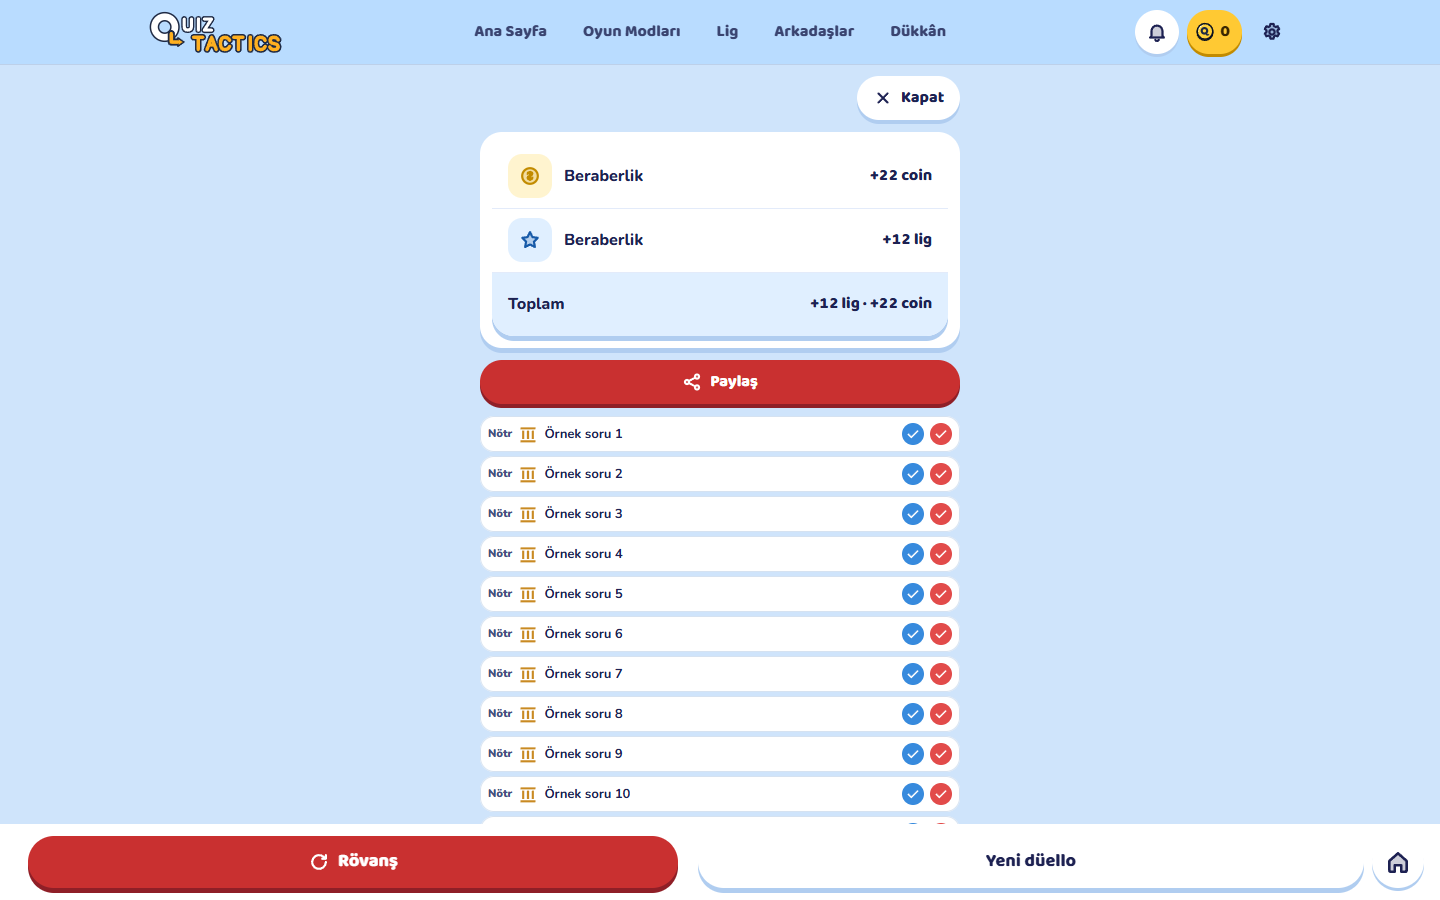
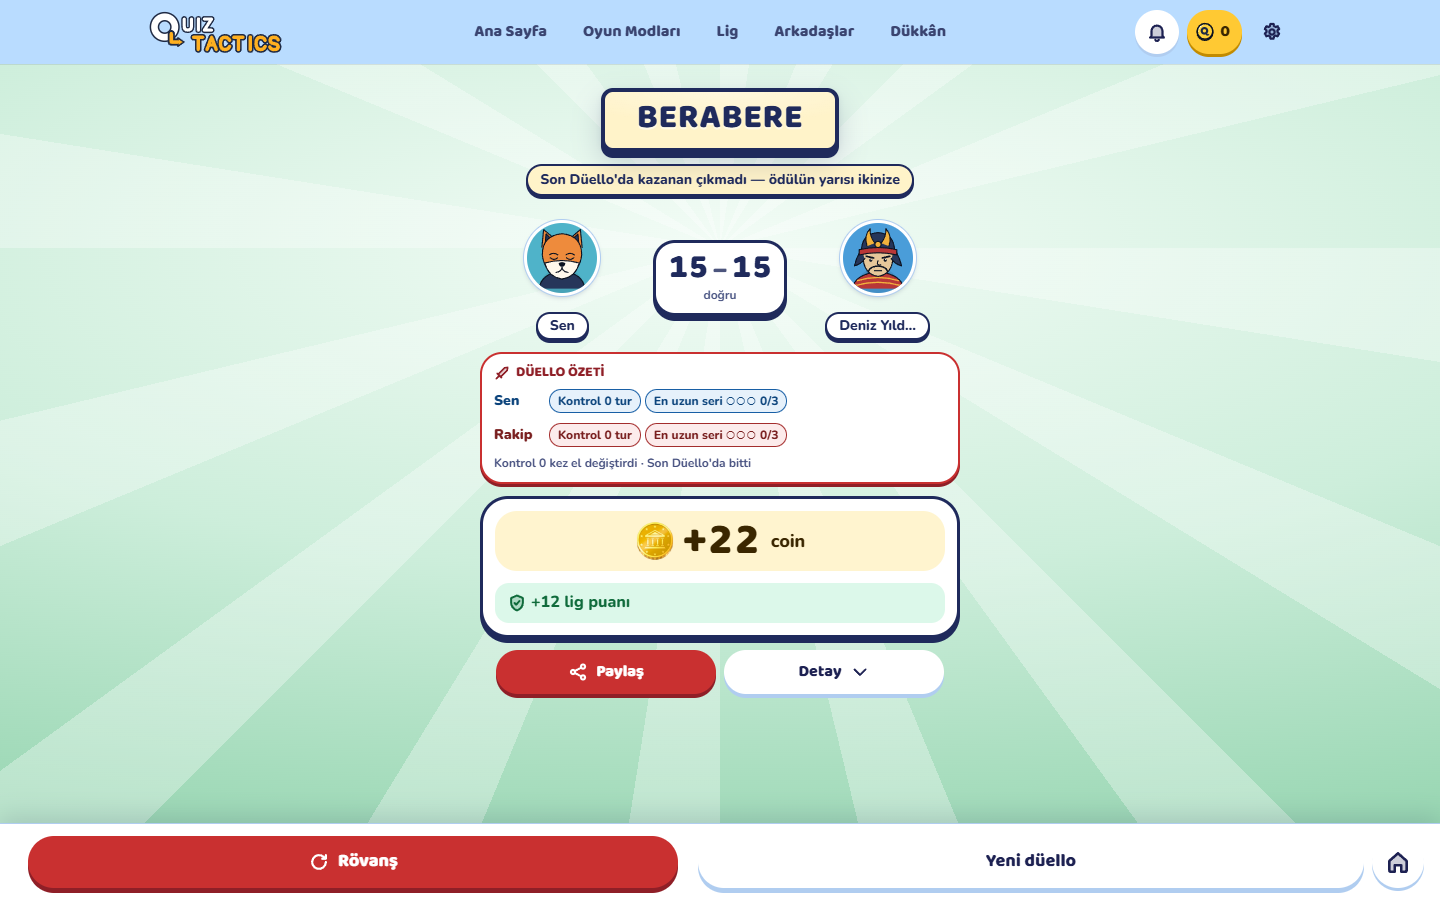
Paylaş maç sonu sahnesinde görünür: Detay'ın yanında (Klasik/Düello/Ortak Hazine), ölçekli sahnede de ≥ 44 px; paylas-ekran testi üç moda genişletildi [progress-yok]
Claude-Session: https://claude.ai/code/session_0121BevVf1dLX7H9cnDz7yFr

diff --git a/oyun/pages/DuelloPage.jsx b/oyun/pages/DuelloPage.jsx
@@ -1439,23 +1439,21 @@ function DuelloMac({ id }) {
           detay={d.durum === "bitti" || ezeliMetin || d.gecmis?.length ? (
             <>
               {d.durum === "bitti" && <OdulDokumu kaynak={`duello:${d.id}`} veri={macSonuOzet?.dokum} gorevleriGoster={false} />}
-              {/* Sistem paylaşımı + 1080×1920 maç sonucu kartı (Klasik maç sonuyla aynı) */}
-              {d.durum === "bitti" && !sahne.terk && (
-                <div className="m1-ss-satir m1-paylas" role="group" aria-label={ceviri("Paylaş")}>
-                  <PaylasDugmesi tur="sonuc" tur2="birincil" tamGenislik className="m1-paylas-kart" sonuc={{
-                    ad: ben.gorunen_ad, avatar: ben.gorunen_avatar ?? null,
-                    benSkor: v4Mac ? Number(ben.dogru ?? 0) : hkS.acik && !hkS.puan ? hkS.benY : Number(ben.puan ?? 0),
-                    rakipSkor: v4Mac ? Number(rakip.dogru ?? 0) : hkS.acik && !hkS.puan ? hkS.rakipY : Number(rakip.puan ?? 0),
-                    durum, rakipAd: rakip.gorunen_ad,
-                  }} />
-                </div>
-              )}
               {/* Son tahta: iki tarafın yuvaları (ikonlarla) */}
               {d.durum === "bitti" && !v4Mac && <HkSonTahta d={d} ben={ben} rakip={rakip} c={c2} />}
               {/* Her soru: hamle sonucu (Aldın / Tutmadı / Kontra…), doğru cevap ve "şık işaretlenmedi" notu (sunucu: gecmis) */}
               {v4Mac ? <D4Gecmis gecmis={d.gecmis} c={c2} /> : <V2Gecmis gecmis={d.gecmis} maxTur={d.max_tur} benId={d.ben} c={c2} />}
               {ezeliMetin && <div className="bd-duello-ezeli">{ezeliMetin}</div>}
             </>
+          ) : null}
+          // Sistem paylaşımı + 1080×1920 maç sonucu kartı — sahnede görünür (Klasik / Kasa ile aynı)
+          paylas={d.durum === "bitti" && !sahne.terk ? (
+            <PaylasDugmesi tur="sonuc" tur2="birincil" tamGenislik sonuc={{
+              ad: ben.gorunen_ad, avatar: ben.gorunen_avatar ?? null,
+              benSkor: v4Mac ? Number(ben.dogru ?? 0) : hkS.acik && !hkS.puan ? hkS.benY : Number(ben.puan ?? 0),
+              rakipSkor: v4Mac ? Number(rakip.dogru ?? 0) : hkS.acik && !hkS.puan ? hkS.rakipY : Number(rakip.puan ?? 0),
+              durum, rakipAd: rakip.gorunen_ad,
+            }} />
           ) : null}
           eylemNotu={hata ? <span className="m2-hata" role="alert"><QtIkon ad="uyari" boyut={18} /> {hata}</span> : null}
           eylemler={{ onYeniMac: () => navigate(y("/duello")), onAnaSayfa: () => navigate(y()), yeniMacEtiketi: ceviri("Yeni düello") }}

diff --git a/oyun/components/MacSonuKutlama.jsx b/oyun/components/MacSonuKutlama.jsx
@@ -182,6 +182,7 @@ function Taraf({ kisi, rol, yan, canToplam, sen, zafer }) {
  * @param {ReactNode} [rovans]         Rövanş düğmesinin yerine (rövanş isteği/kabul akışları)
  * @param {ReactNode} [eylemNotu]      eylem çubuğunun üstünde tam satır (rövanş yanıtı, hata)
  * @param {ReactNode} [detay]          açılır "Detay" bölümü (döküm, sorular, paylaş)
+ * @param {ReactNode} [paylas]         sahnede Detay düğmesinin yanında görünür Paylaş düğmesi (14 Eki 2026)
  * @param {ReactNode} [modOzet]        moda özel kısa özet, skorun altında sahnede (Düello: ele geçirilen kategoriler,
  *                                     Ortak Hazine: açılan hazineler) — 7 Eki 2026
  * @param {number} [detayRozet]       Detay düğmesindeki sayı (kaçırılan soru)
@@ -213,6 +214,7 @@ function MacSonuKutlama({
   rovans,
   eylemNotu,
   detay,
+  paylas,
   modOzet,
   detayRozet = 0,
   children,
@@ -730,13 +732,16 @@ function MacSonuKutlama({
 
       {/* A.3: açılır Detay (ödül dökümü, sorular, paylaş) + serbest ek içerik (sohbet, tepkiler).
           A.4: sahnede yalnız düğme; içerik gövdenin üstünde açılan panelde (kaydırma yalnız panelde). */}
-      {asama >= 2 && panelVar && (
-        <div className={`msk-detay msk-a${detayAcik ? " msk-detay--acik" : ""}`} onClick={durdur}>
-          <QtDugme tur="ikincil" boyut="k" className="msk-detay-dugme" ikonSag="asagi" aria-expanded={detayAcik}
-                   aria-controls={panelId} onClick={() => setDetayAcik(true)}>
-            {tt("Detay")}
-            {detayRozet > 0 && <span className="msk-detay-rozet"> ({detayRozet})</span>}
-          </QtDugme>
+      {asama >= 2 && (panelVar || paylas) && (
+        <div className={`msk-detay msk-a${paylas ? " msk-detay--paylas" : ""}${detayAcik ? " msk-detay--acik" : ""}`} onClick={durdur}>
+          {paylas}
+          {panelVar && (
+            <QtDugme tur="ikincil" boyut="k" className="msk-detay-dugme" ikonSag="asagi" aria-expanded={detayAcik}
+                     aria-controls={panelId} onClick={() => setDetayAcik(true)}>
+              {tt("Detay")}
+              {detayRozet > 0 && <span className="msk-detay-rozet"> ({detayRozet})</span>}
+            </QtDugme>
+          )}
         </div>
       )}
       </div>{/* .msk-icerik */}

diff --git a/oyun/pages/MatchPage.jsx b/oyun/pages/MatchPage.jsx
@@ -968,6 +968,13 @@ export default function MatchPage() {
           rozetler={sahne.rozetler}
           detayRozet={yanlisAdet}
           modOzet={sahne.terk ? null : <MacOzetSatiri kaynak={`mac:${id}`} ortCevap={macSonuOzet?.ort_cevap} />}
+          // Sistem paylaşımı + 1080×1920 maç sonucu kartı (Instagram, TikTok …) — sahnede görünür; WhatsApp/𝕏/Diğer Detay'da
+          paylas={sahne.terk ? null : (
+            <PaylasDugmesi tur="sonuc" tur2="birincil" tamGenislik sonuc={{
+              ad: benimProfil?.gorunen_ad, avatar: avatarSrc(benimProfil), benSkor: benimSkor, rakipSkor,
+              durum: berabere ? "berabere" : kazandim ? "kazandi" : "kaybetti", rakipAd: botAdi(rakipProfil?.gorunen_ad),
+            }} />
+          )}
           detay={
             <>
               {/* Paket 20 I.3: satır satır döküm (aynı sunucu kaydı, ikinci sorgu yok) */}
@@ -995,11 +1002,6 @@ export default function MatchPage() {
                 const enc = encodeURIComponent(mesaj);
                 return (
                   <div className="m1-ss-satir m1-paylas" role="group" aria-label={tt("Paylaş")}>
-                    {/* Sistem paylaşımı + 1080×1920 maç sonucu kartı (Instagram, TikTok …) */}
-                    <PaylasDugmesi tur="sonuc" tur2="birincil" tamGenislik className="m1-paylas-kart" sonuc={{
-                      ad: benimProfil?.gorunen_ad, avatar: avatarSrc(benimProfil), benSkor: benimSkor, rakipSkor,
-                      durum: berabere ? "berabere" : kazandim ? "kazandi" : "kaybetti", rakipAd: botAdi(rakipProfil?.gorunen_ad),
-                    }} />
                     <QtDugme as="a" tur="ikincil" boyut="k" ikon="paylas" href={`https://wa.me/?text=${enc}`} target="_blank" rel="noreferrer">
                       WhatsApp
                     </QtDugme>

diff --git a/oyun/pages/KasaPage.jsx b/oyun/pages/KasaPage.jsx
@@ -1353,18 +1353,16 @@ function KasaMac({ id }) {
           detay={d.durum === "bitti" ? (
             <>
               <OdulDokumu kaynak={`kasa:${d.id}`} veri={macSonuOzet?.dokum} gorevleriGoster={false} />
-              {/* Sistem paylaşımı + 1080×1920 maç sonucu kartı (Klasik / Düello maç sonuyla aynı) */}
-              {!sahne.terk && (
-                <div className="m1-ss-satir m1-paylas" role="group" aria-label={c("Paylaş")}>
-                  <PaylasDugmesi tur="sonuc" tur2="birincil" tamGenislik className="m1-paylas-kart" sonuc={{
-                    ad: ben.gorunen_ad, avatar: ben.gorunen_avatar ?? null, benSkor: skor.a, rakipSkor: skor.b, durum, rakipAd: rakip.gorunen_ad,
-                  }} />
-                </div>
-              )}
               <KasaGecmis gecmis={d.gecmis} c={c} />
               {/* 957: arkadaşla Kasa geçmişi (Düello 'ezeli' ile aynı metin ve görünüm) */}
               {ezeliMetin && <div className="bd-duello-ezeli">{ezeliMetin}</div>}
             </>
+          ) : null}
+          // Sistem paylaşımı + 1080×1920 maç sonucu kartı — sahnede görünür (Klasik / Düello ile aynı)
+          paylas={d.durum === "bitti" && !sahne.terk ? (
+            <PaylasDugmesi tur="sonuc" tur2="birincil" tamGenislik sonuc={{
+              ad: ben.gorunen_ad, avatar: ben.gorunen_avatar ?? null, benSkor: skor.a, rakipSkor: skor.b, durum, rakipAd: rakip.gorunen_ad,
+            }} />
           ) : null}
           eylemNotu={hata ? <span className="m2-hata" role="alert"><QtIkon ad="uyari" boyut={18} /> {hata}</span> : null}
           eylemler={{ onYeniMac: () => navigate(y("/kasa")), onAnaSayfa: () => navigate(y()), yeniMacEtiketi: c("Yeni maç") }}

diff --git a/oyun/tasarim/ekranlar/mac-sonu-kutlama.css b/oyun/tasarim/ekranlar/mac-sonu-kutlama.css
@@ -670,6 +670,12 @@ html.msk-acik .mobile-nav, html.msk-acik .a-kabuk .a-altmenu { display: none !im
 }
 .msk-detay { display: flex; flex-direction: column; gap: var(--qt-b-3); scroll-margin-top: var(--qt-b-4); }
 .msk-detay-dugme { align-self: center; }
+/* Paylaş sahnede görünür (14 Eki 2026): Detay ile aynı satırda, eşit genişlik; dar ekranda da tek satır */
+.msk-detay--paylas { flex-direction: row; justify-content: center; align-items: flex-start; gap: var(--qt-b-2); }
+.msk-detay--paylas > * { flex: 1 1 0; min-width: 0; max-width: 220px; }
+.msk-detay--paylas > .msk-detay-dugme { align-self: flex-start; }
+/* İçerik ölçeklenince (data-sikisik) Paylaş/Detay ekranda yine ≥ 44 px dokunma hedefi kalsın */
+.msk-icerik[data-sikisik] .msk-detay .qt-dugme { min-height: calc(var(--qt-dokunma) / var(--msk-sigdir, 1)); }
 .msk-detay-dugme .qt-ikon { transition: transform var(--qt-s-kisa) var(--qt-egri-cikis); }
 .msk-detay--acik .msk-detay-dugme .qt-ikon:last-child { transform: rotate(180deg); }
 .msk-detay-govde { display: flex; flex-direction: column; gap: var(--qt-b-3); }
